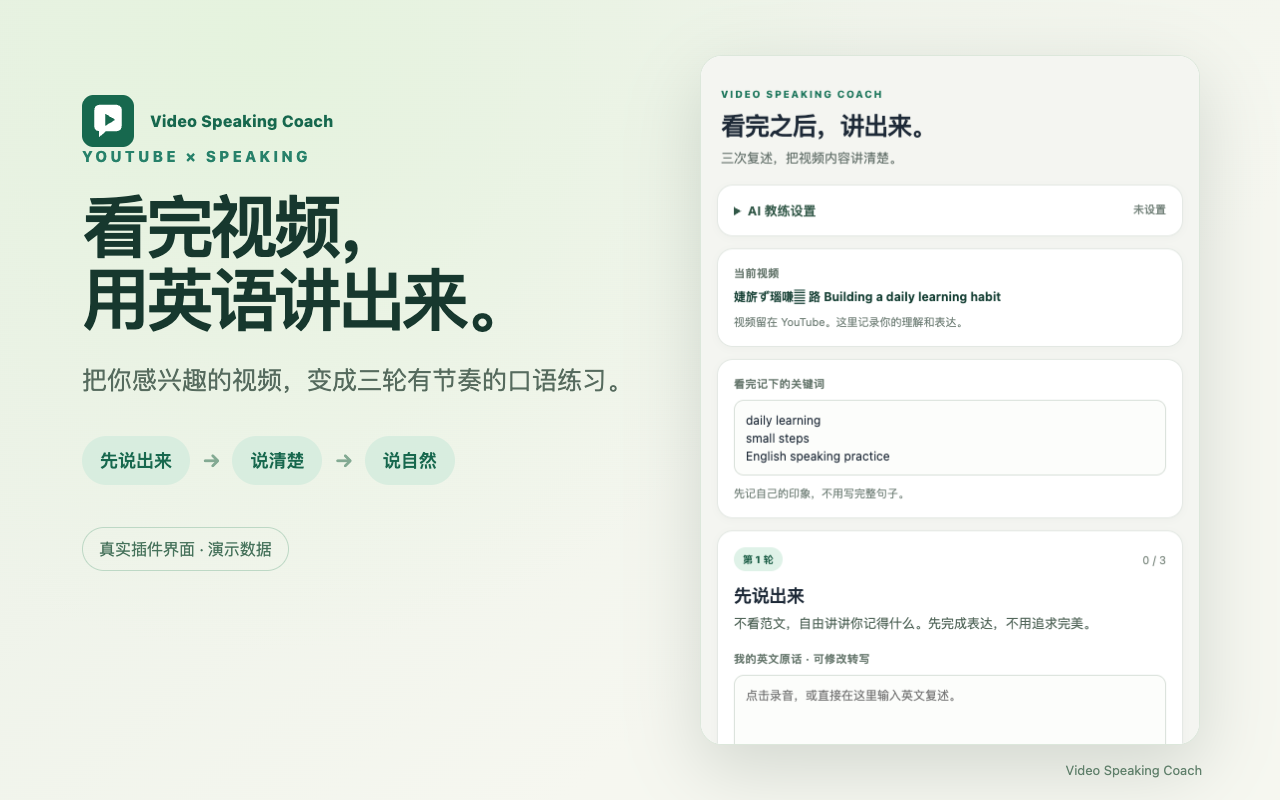
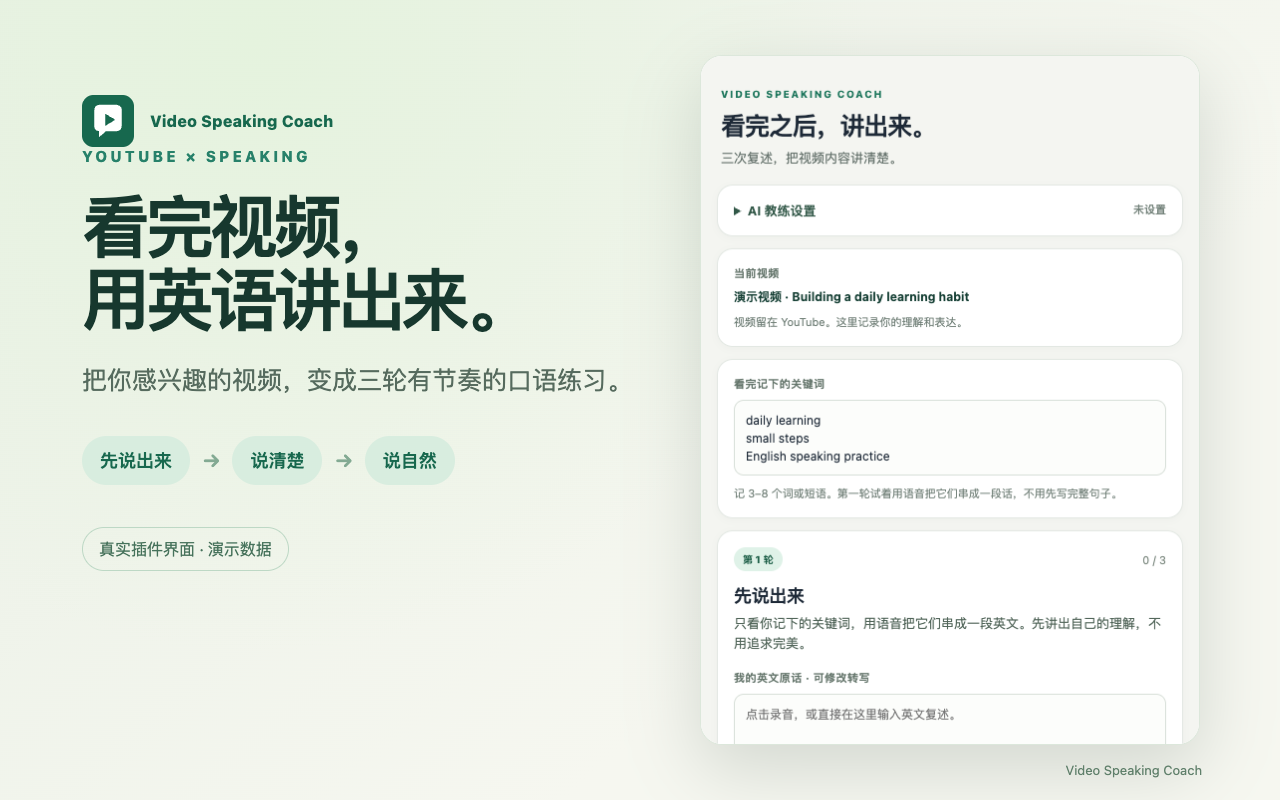
Explain keyword-led active speaking method

Changed region(s): [[0.5625, 0.75, 0.9062, 0.9062], [0.5625, 0.5938, 0.875, 0.625], [0.5625, 0.3438, 0.7812, 0.375]]

diff --git a/extension/sidepanel.html b/extension/sidepanel.html
@@ -69,7 +69,7 @@
         <section class="card">
           <label class="label" for="keywords">看完记下的关键词</label>
           <textarea id="keywords" rows="3" placeholder="人物、事件、观点、不懂的词……"></textarea>
-          <div class="hint">先记自己的印象，不用写完整句子。</div>
+          <div class="hint">记 3–8 个词或短语。第一轮试着用语音把它们串成一段话，不用先写完整句子。</div>
         </section>
 
         <section class="card practice-card">

diff --git a/USER_GUIDE.md b/USER_GUIDE.md
@@ -16,7 +16,7 @@
 
 1. 在 YouTube 打开一段你感兴趣的视频。普通视频、Shorts 和直播回放的链接都可关联。先看视频；可以正常暂停、倒退或回看。
 2. 看完后，点击工具栏里的 **Video Speaking Coach** 图标。侧边栏会显示“当前视频”。视频继续留在 YouTube，不会转存到插件里。
-3. 在“看完记下的关键词”里输入 3–8 个词或短语，例如人物、事件、核心观点、印象深刻的例子。可用中文或英文，不需要写完整句子。关键词会自动保存在当前视频的练习记录里。
+3. 在“看完记下的关键词”里输入 3–8 个词或短语，例如人物、事件、核心观点、印象深刻的例子。可用中文或英文，不需要写完整句子。关键词会自动保存在当前视频的练习记录里。它们是第一轮开口时的提词线索，不是要照读的稿子。
 
 也可以先打开侧边栏，再打开或切到 YouTube 视频。侧边栏会自动识别当前视频；YouTube 首页和搜索结果页不是视频页面。切换到另一段视频时，会显示该视频自己的练习记录。
 
@@ -28,13 +28,13 @@
 
 | 轮次 | 你的任务 | 什么时候提交 |
 | --- | --- | --- |
-| 第 1 轮 · 先说出来 | 不看范文，自由讲出记得的内容 | 至少说出视频主题和你记住的一点后，点击“完成这一轮” |
+| 第 1 轮 · 先说出来 | 只看自己记下的关键词，用语音把词串成英文，讲出记得的内容 | 至少说出视频主题和你记住的一点后，点击“完成这一轮” |
 | 第 2 轮 · 说清楚 | 按“主题 → 两个重点 → 例子”重新组织 | 讲清主要顺序后，点击“完成这一轮” |
 | 第 3 轮 · 说自然 | 尽量独立、连贯地讲述，并加入自己的看法 | 讲完后点击“完成练习” |
 
 每次提交后，本轮建议会直接出现在练习区下方，原话和反馈也会进入“练习记录”。若已设置自己的 API Key，会自动生成针对本轮的反馈；否则显示固定练习提示。稍后设置密钥时，可以点击“获取 AI 建议”补上本轮反馈。三轮完成后，进度显示 `3 / 3`，可以回看三轮内容。
 
-**一个简单示例：**看完关于城市交通的视频，关键词写 `traffic, bicycles, safer streets`。第一轮先用自己的话说看到的内容；第二轮补上视频的两个主要理由；第三轮讲述视频观点并说出你是否同意。重点是比较三次表达是否越来越清楚。
+**一个简单示例：**看完关于城市交通的视频，关键词写 `traffic, bicycles, safer streets`。第一轮只看这三个词，对着麦克风说出自己的理解，例如从“视频谈什么”讲到“为什么提到自行车”；卡住也先把意思讲完。第二轮补上视频的两个主要理由；第三轮讲述视频观点并说出你是否同意。重点是比较三次表达是否越来越清楚。
 
 ## 四、查词和提问
 

diff --git a/launch/PRODUCT_ONE_PAGER.md b/launch/PRODUCT_ONE_PAGER.md
@@ -1,10 +1,10 @@
 # 产品简介｜Video Speaking Coach
 
-**一句话：**不知道怎样练英语口语？打开一段感兴趣的 YouTube 视频，跟着插件完成“观看 → 记关键词 → 自己复述 → 获取建议 → 再练习 → 收藏记录”。
+**一句话：**不知道怎样练英语口语？看一段感兴趣的 YouTube 视频，记关键词，再只看这些词、用自己的声音把内容串起来。插件带你完成“输入 → 主动输出 → 反馈 → 再输出 → 收藏记录”。
 
 ## 为什么做
 
-不少人想练口语，却不知道每天具体要做什么；也有人看了很多英语视频，真正开口时仍难以讲清自己的理解。Video Speaking Coach 把常见的复述、回顾和反馈练习整理成一套能在浏览器里直接执行的流程。用户选择自己感兴趣的内容，插件负责提示下一步、留下原话，并帮助发现下一轮可以改进的地方。
+不少人想练口语，却不知道每天具体要做什么；也有人看了很多英语视频，真正开口时仍难以讲清自己的理解。Video Speaking Coach 把输入、关键词提取、主动复述、反馈和重复表达整理成一套能在浏览器里直接执行的流程。用户选择自己感兴趣的内容，插件负责提示下一步、留下原话，并帮助发现下一轮可以改进的地方。
 
 ## 适合谁
 
@@ -13,7 +13,7 @@
 ## 一次练习如何完成
 
 1. 在 YouTube 看完自己选的视频，在侧边栏记下关键词。
-2. 第 1 轮自由复述；第 2 轮按主题、重点、例子讲清楚；第 3 轮脱离笔记，加入个人观点。
+2. 第 1 轮只看自己记下的关键词，开口把它们串成英文；第 2 轮按主题、重点、例子讲清楚；第 3 轮脱离笔记，加入个人观点。
 3. 每轮使用浏览器语音识别或键盘输入；提交前可修改英文转写。
 4. 随时查词。基础翻译无需 API Key；语境解释、口语建议和问答需要自行配置 OpenAI 或阿里云百炼。
 5. 查看原话和建议，按建议再讲一次。完成三轮后下载 Markdown，或将记录送入 Obsidian；Notion 通过手动导入 Markdown 收藏。

diff --git a/METHODOLOGY.md b/METHODOLOGY.md
@@ -1,0 +1,17 @@
+# 练习方法：先输入，再自己说出来
+
+这个插件提供一套可重复执行的口语练习流程。它把观看视频作为输入，把**只看关键词的口头复述**作为关键动作，然后通过反馈和再次表达帮助用户整理内容。三轮是产品设计的练习节奏，不是某项研究规定的唯一正确次数。
+
+## 一次练习
+
+1. **看：**选自己感兴趣的视频，先理解大意。视频留在 YouTube。
+2. **记：**看完记 3–8 个关键词或短语，抓住主题、重点和例子。不写整篇英文稿。
+3. **第一次说：**只看自己写的关键词，对着麦克风用英文把它们串起来。卡住时可以停顿或换个简单说法，先把意思表达完整；之后检查语音转写。
+4. **得到反馈：**保留第一轮原话，找出一个最值得补充的内容或结构点。有 AI Key 时可获取个性化文字建议；否则按固定提示继续。
+5. **再说两次：**第二轮补结构和例子；第三轮尽量不看前两轮的文字，加入自己的看法。结束后回看三轮变化并收藏记录。
+
+关键词是提取记忆的线索，不是范文。用户需要自己选择、组织和说出内容；AI 不替用户完成第一遍表达，也不在用户开口前提供整篇标准答案。
+
+## 为什么采用这套动作
+
+研究分别支持**主动提取**和**自己生成解释**能促进学习：例如 [Karpicke 与 Roediger 关于 retrieval practice 的实验](https://doi.org/10.1126/science.1152408)，以及 [Chi 等人关于自我解释的研究](https://onlinelibrary.wiley.com/doi/10.1207/s15516709cog1803_3)。本插件借鉴这些学习动作，把它们用于英语视频复述；这些研究不能直接证明本插件的三轮流程优于所有其他口语方法，也不代表每位用户都会取得相同效果。

diff --git a/README.md b/README.md
@@ -1,6 +1,6 @@
 # Video Speaking Coach｜看完之后，讲出来
 
-不知道怎样练英语口语？选一段感兴趣的 YouTube 视频，看完记下关键词，再跟着侧边栏用英语复述三次：**先说出来 → 说清楚 → 说自然**。插件记录每轮原话和建议，帮助你把“听懂”变成“讲清楚”。
+不知道怎样练英语口语？选一段感兴趣的 YouTube 视频作为输入，看完记下关键词，先只看这些词、用自己的声音把它们串成英文，再跟着侧边栏复述三次：**先说出来 → 说清楚 → 说自然**。插件记录每轮原话和建议，帮助你把“听懂”变成“讲清楚”。
 
 ![三轮口语练习演示](launch/assets/screenshot-02-rounds.png)
 
@@ -8,7 +8,7 @@
 
 ## 为什么做
 
-很多人找得到英语视频，却不知道看完后如何有效开口。这个项目把“看视频、记关键词、自己复述、获得反馈、重复练习、收藏记录”做成一套能直接执行的流程。视频由你自己选择和观看，插件不替你生成整篇复述。
+很多人找得到英语视频，却不知道看完后如何有效开口。这个项目把“输入 → 关键词提取 → 主动输出 → 反馈 → 再输出”做成一套能直接执行的流程。第一轮不照读范文：只看自己记下的关键词，用语音讲出理解，再逐轮补上结构和个人观点。视频由你自己选择和观看，插件不替你生成整篇复述。详见[练习方法](METHODOLOGY.md)。
 
 ## 功能
 

diff --git a/launch/PROMOTION_COPY.md b/launch/PROMOTION_COPY.md
@@ -14,7 +14,7 @@
 
 ## 社交平台短帖
 
-很多人想练口语，难点是每天不知道具体怎么练。我把“看、记、说、获得反馈、再说一次”做成了一个浏览器插件。看完自己感兴趣的 YouTube 视频，先记关键词，再用英语复述三次：第一次先说出来，第二次把逻辑讲清楚，第三次尝试说自然。插件保留每轮原话；需要个性化建议时，可以连接自己选择的 OpenAI 或百炼普通 API。想练就打开侧边栏，不用预约；练完把记录导出为 Markdown，收藏进自己的笔记系统。
+很多人想练口语，难点是每天不知道具体怎么练。我把“先输入，再主动输出”的练习方法做成了一个浏览器插件。看完自己感兴趣的 YouTube 视频，先记几个关键词；第一次对着麦克风，只看这些词，用英文把它们串成自己的理解。第二次把逻辑讲清楚，第三次尽量不看笔记、说出自己的观点。插件保留每轮原话；需要个性化建议时，可以连接自己选择的 OpenAI 或百炼普通 API。想练就打开侧边栏，不用预约；练完把记录导出为 Markdown，收藏进自己的笔记系统。
 
 这是一套可以马上动手的练习流程，适合视频看了不少，却一直缺少开口练习方法的人。
 

diff --git a/launch/STORE_LISTING_EN.md b/launch/STORE_LISTING_EN.md
@@ -10,11 +10,11 @@ Follow a simple speaking routine: watch YouTube, note keywords, retell three tim
 
 ## Full description
 
-Want to practise English speaking but unsure what to do each day? You understood the video, but can you explain it in English? Video Speaking Coach turns watching, noting, retelling, feedback, and review into a routine you can follow in your browser.
+Want to practise English speaking but unsure what to do each day? You understood the video, but can you explain it in English? Video Speaking Coach turns input, keyword recall, active retelling, feedback, and another attempt into a routine you can follow in your browser.
 
 Watch the video, write a few keywords, then retell it three times:
 
-1. **Say it** — describe what you remember in your own words.
+1. **Say it** — look only at the keywords you wrote, then connect them aloud in your own English.
 2. **Make it clear** — organize the topic, main points, and an example.
 3. **Make it natural** — retell it independently and add your view.
 

diff --git a/launch/STORE_LISTING_ZH.md b/launch/STORE_LISTING_ZH.md
@@ -10,11 +10,11 @@ Video Speaking Coach｜看完就说
 
 ## 详细介绍
 
-想练英语口语，却不知道每天该怎么练？看视频时听懂了，轮到自己讲又说不出来？Video Speaking Coach 把观看、记录、复述、反馈和回顾整理成一套可以直接跟着做的浏览器练习流程。
+想练英语口语，却不知道每天该怎么练？看视频时听懂了，轮到自己讲又说不出来？Video Speaking Coach 把“先输入，再主动输出”的练习方法做成可以直接跟着做的浏览器流程：看视频、提取关键词、自己复述、获得反馈、再次表达。
 
 先看视频，记下关键词，然后用英语讲三次：
 
-1. **先说出来**：自由复述记住的内容，不急着纠错。
+1. **先说出来**：只看自己记下的关键词，用语音把它们串成英文，不急着纠错。
 2. **说清楚**：按主题、重点和例子组织表达。
 3. **说自然**：独立重讲，加入自己的看法。
 

diff --git a/launch/QUICK_START.md b/launch/QUICK_START.md
@@ -2,7 +2,7 @@
 
 1. 在桌面 Chrome 打开一段 YouTube 视频，观看后点击插件图标。
 2. 在侧边栏写下人物、事件、观点或不懂的词。
-3. 第 1 轮自由说；第 2 轮按“主题 → 重点 → 例子”重讲；第 3 轮独立表达并加入看法。
+3. 第 1 轮只看自己写的关键词，用语音把它们串成英文；第 2 轮按“主题 → 重点 → 例子”重讲；第 3 轮尽量不看笔记，独立表达并加入看法。
 4. 每轮可用麦克风输入或直接打字。语音首次使用时，按页面说明主动授权；提交前检查转写。
 5. 需要即时翻译时输入单词。想获得个性化建议，在“AI 教练设置”中选择服务商；若不懂 API Key，点击“前往官网获取 API Key”，创建后返回插件粘贴。
 6. 三轮结束后回看原话与建议，点击“下载 Markdown”保存记录。可在 Notion 手动导入文件，或放入 Obsidian。

diff --git a/launch/README.md b/launch/README.md
@@ -6,6 +6,7 @@
 
 - [中文商店介绍](STORE_LISTING_ZH.md)、[英文商店介绍](STORE_LISTING_EN.md)
 - [一分钟上手](QUICK_START.md)、[完整使用教程](../USER_GUIDE.md)
+- [练习方法：先输入，再自己说出来](../METHODOLOGY.md)
 - [产品简介](PRODUCT_ONE_PAGER.md)、[社交平台文案与演示脚本](PROMOTION_COPY.md)
 - [费用与竞品对比笔记](PRICING_COMPARISON.md)
 - [素材清单与真实记录截图状态](ASSET_PLAN.md)、[发布前检查](PUBLISH_CHECKLIST.md)
